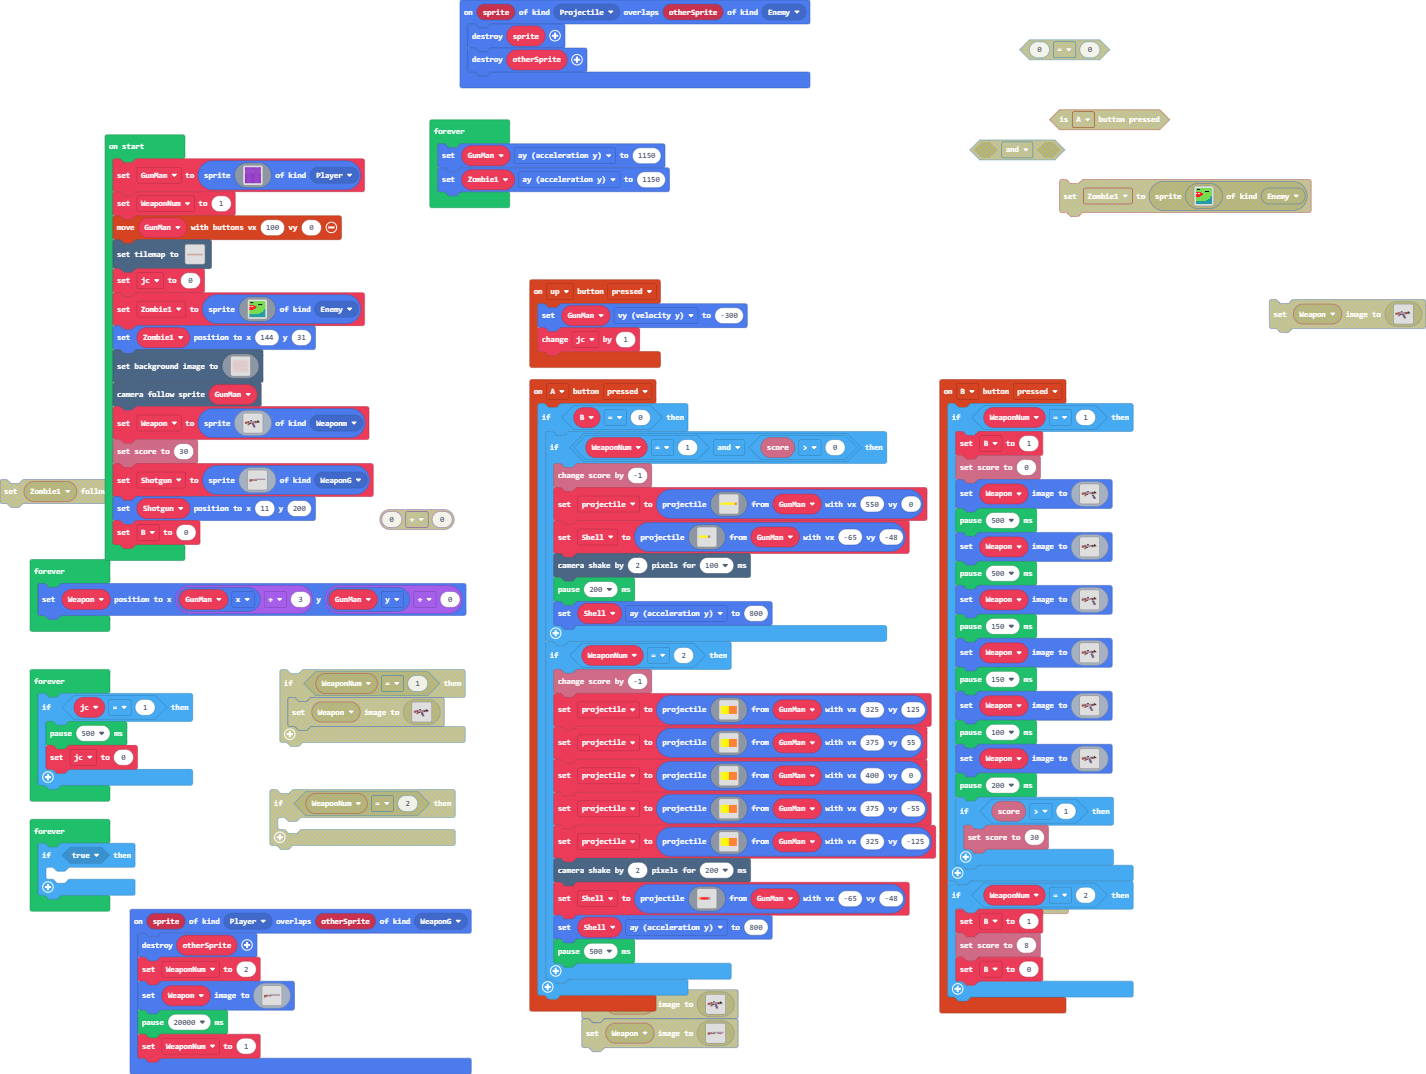
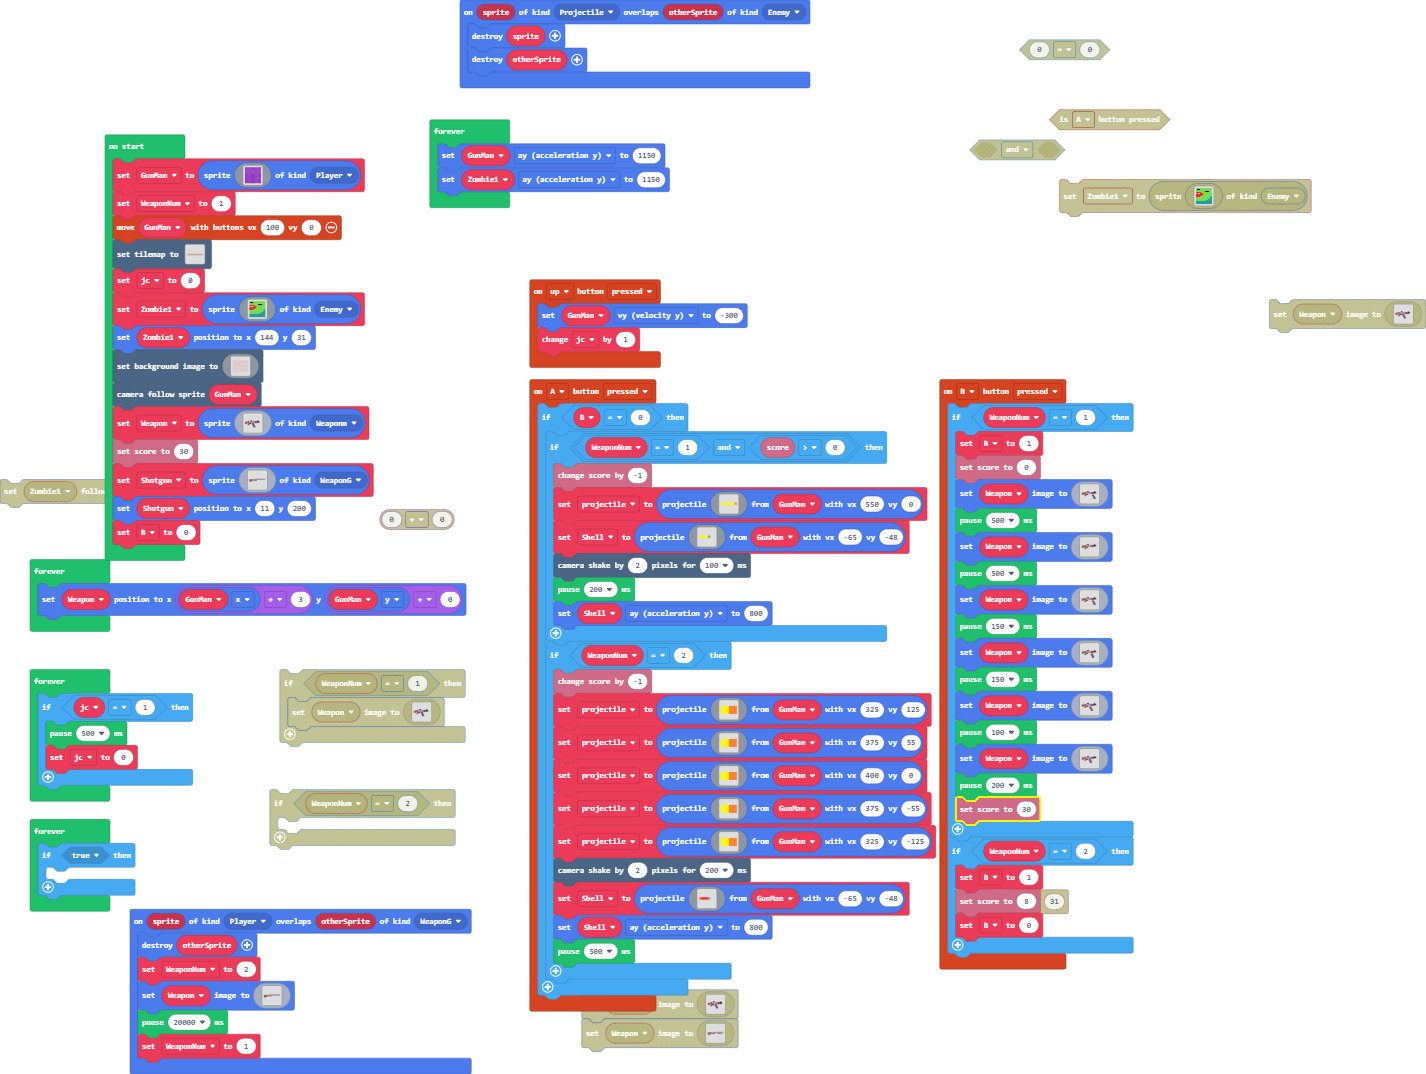
Update main.blocks, main.ts

Changed region(s): [[0.648, 0.7374, 0.8022, 0.9525]]

diff --git a/main.ts b/main.ts
@@ -141,9 +141,7 @@ controller.B.onEvent(ControllerButtonEvent.Pressed, function () {
             .......................
             `)
         pause(200)
-        if (info.score() > 1) {
-            info.setScore(30)
-        }
+        info.setScore(30)
     }
     if (WeaponNum == 2) {
         B = 1
